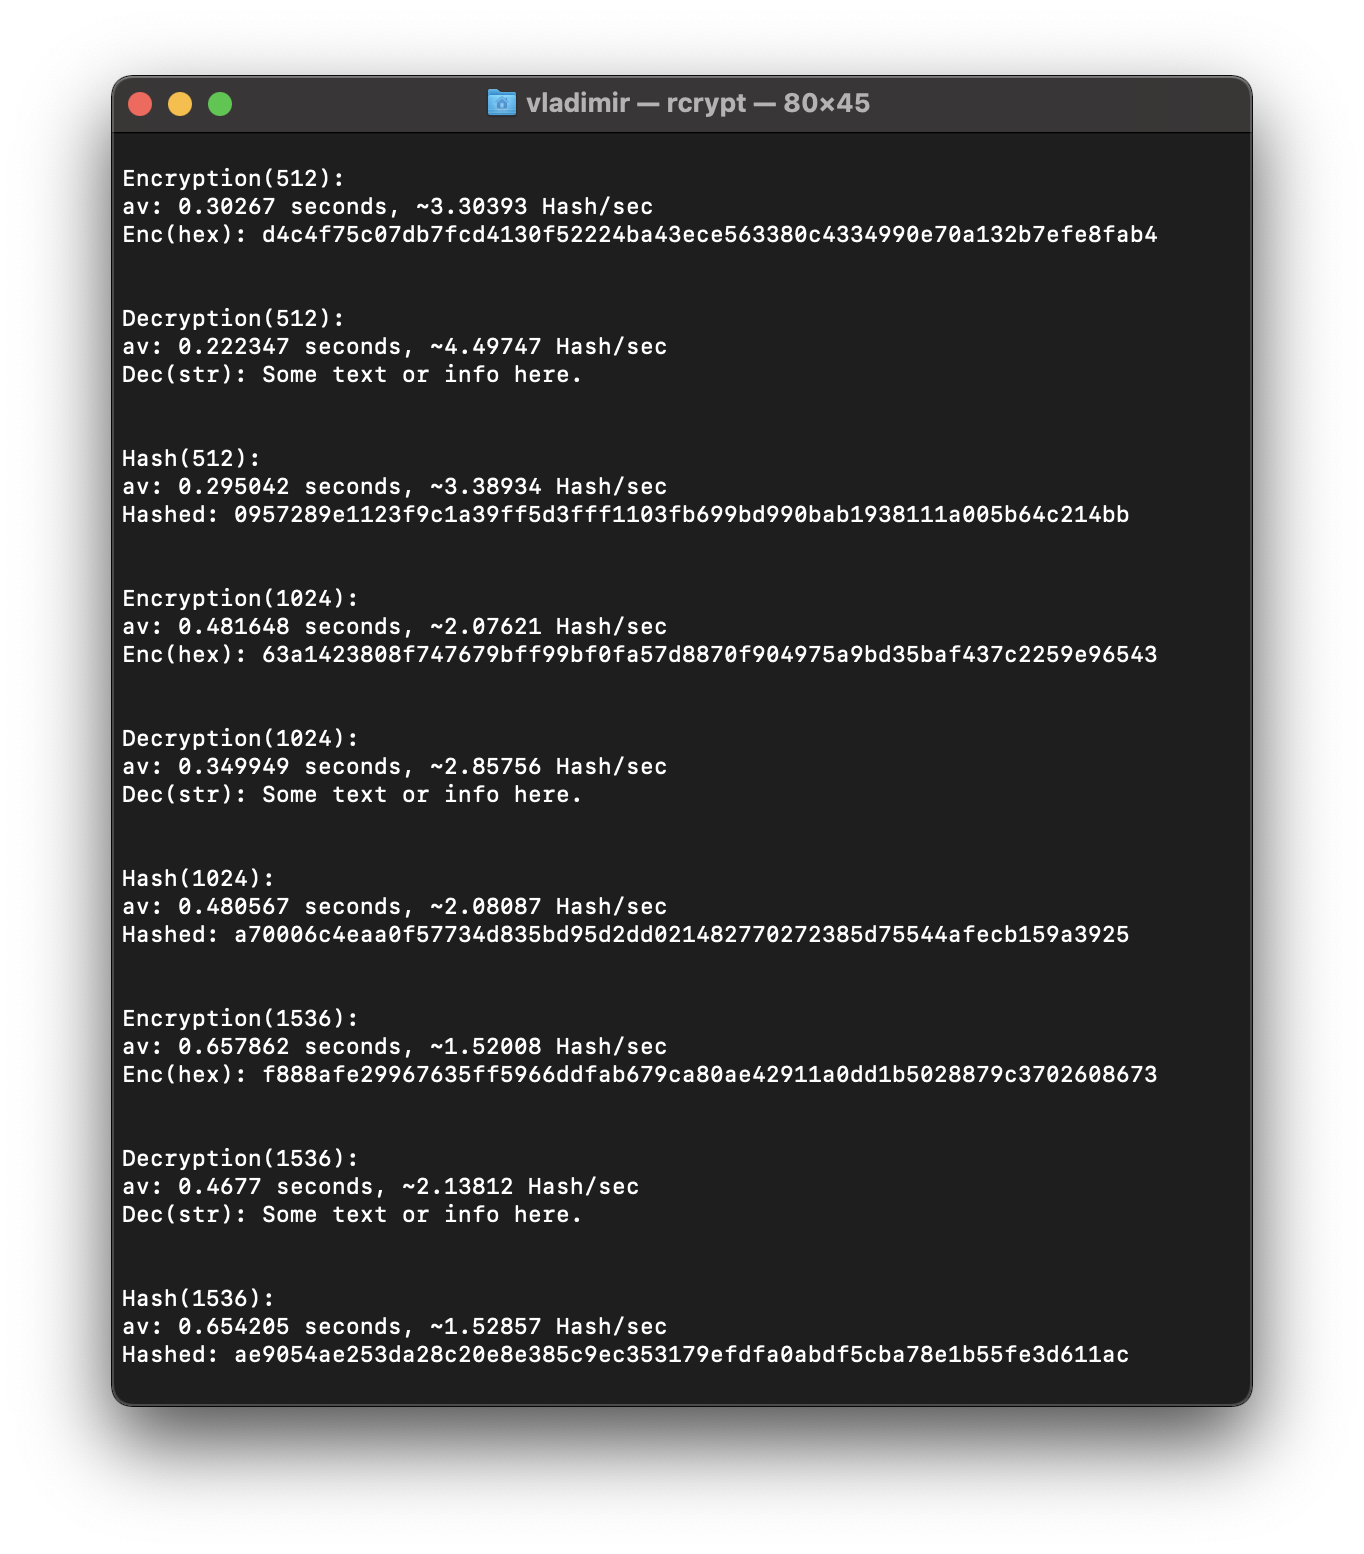
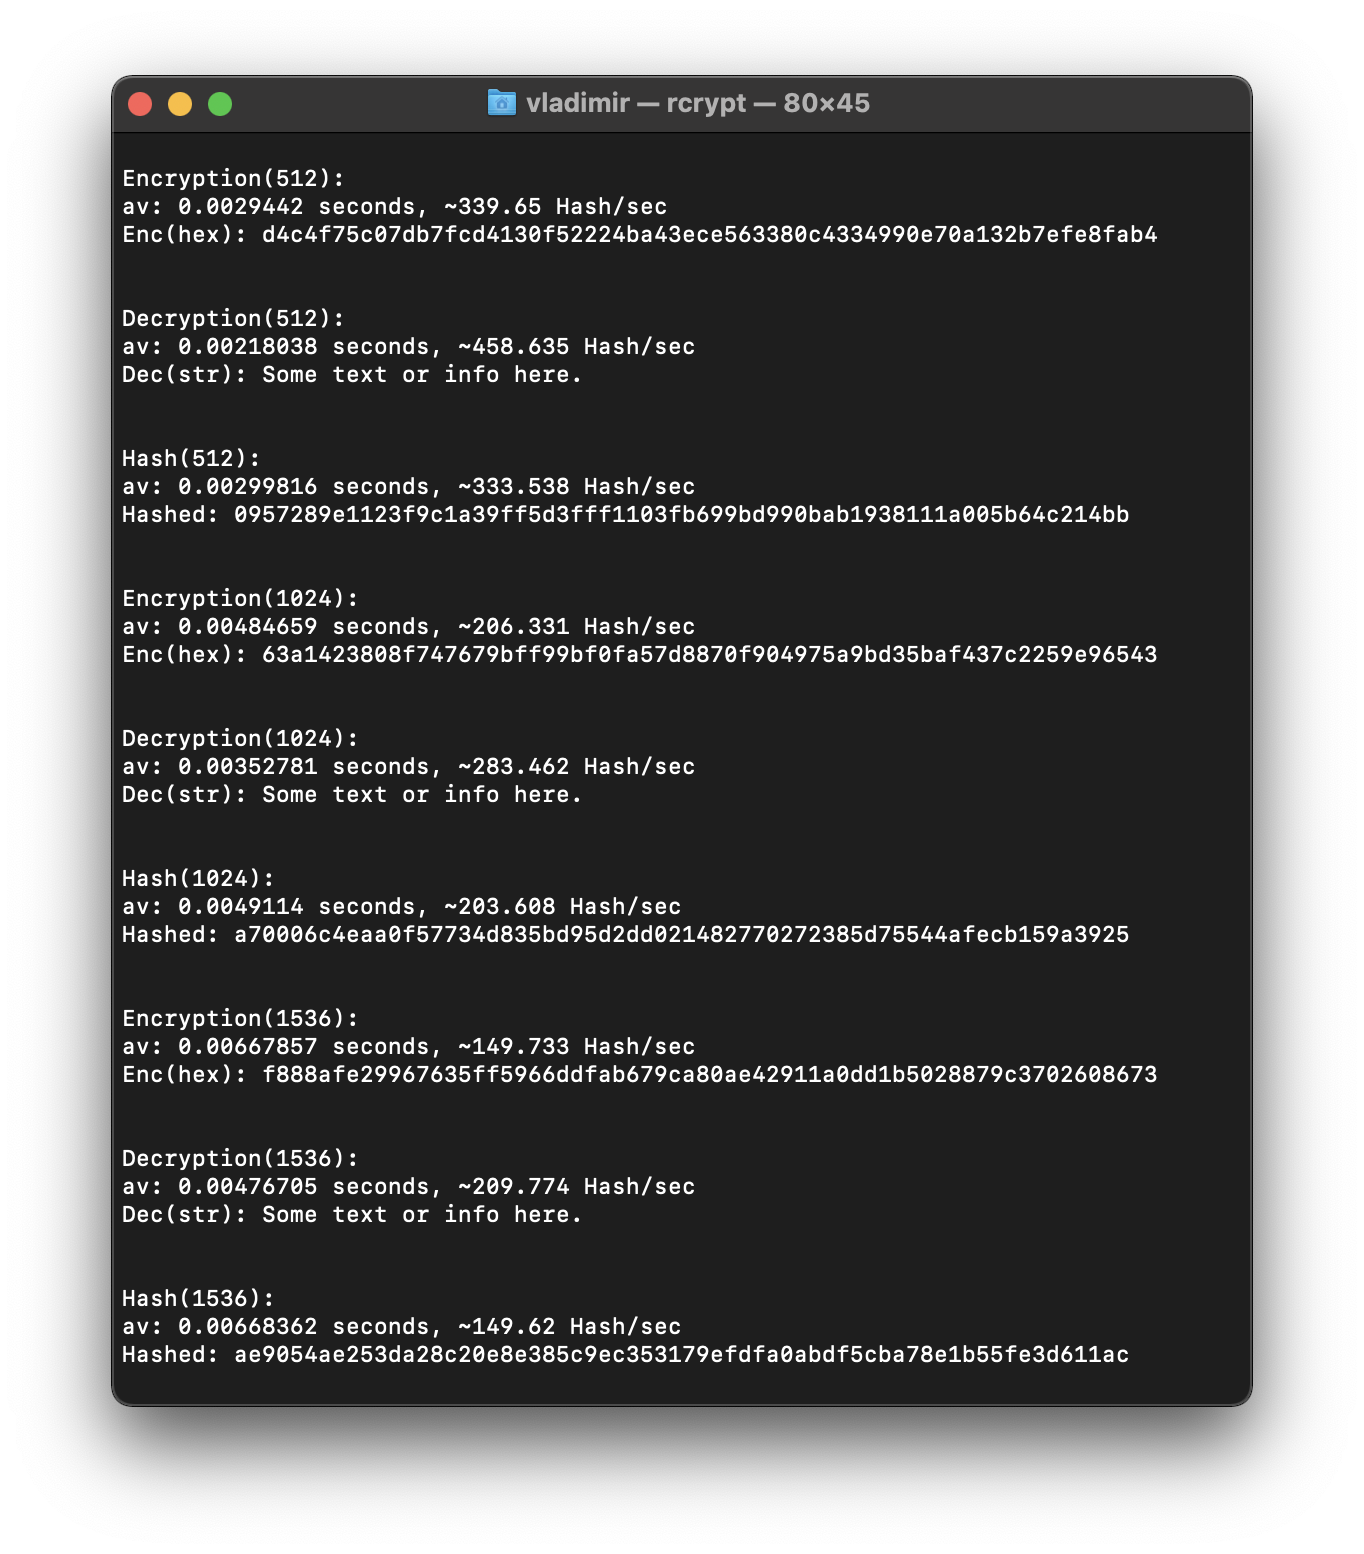
finishing

diff --git a/src/rcrypt/main.cpp b/src/rcrypt/main.cpp
@@ -35,7 +35,7 @@ int main() {
                 auto duration = std::chrono::system_clock::now() - start;
 
                 if (i >= 60) {
-                    data1e.push_back(std::chrono::duration_cast<std::chrono::microseconds>(duration).count() / 10000.0);
+                    data1e.push_back(std::chrono::duration_cast<std::chrono::microseconds>(duration).count() / 1000000.0);
                 }
 
                 delete ence;
@@ -69,7 +69,7 @@ int main() {
                 auto duration = std::chrono::system_clock::now() - start;
 
                 if (i >= 60) {
-                    data1d.push_back(std::chrono::duration_cast<std::chrono::microseconds>(duration).count() / 10000.0);
+                    data1d.push_back(std::chrono::duration_cast<std::chrono::microseconds>(duration).count() / 1000000.0);
                 }
 
                 delete decd;
@@ -103,7 +103,7 @@ int main() {
                 auto duration = std::chrono::system_clock::now() - start;
 
                 if (i >= 60) {
-                    data1h.push_back(std::chrono::duration_cast<std::chrono::microseconds>(duration).count() / 10000.0);
+                    data1h.push_back(std::chrono::duration_cast<std::chrono::microseconds>(duration).count() / 1000000.0);
                 }
 
                 delete hashe;
@@ -150,7 +150,7 @@ int main() {
                 auto duration = std::chrono::system_clock::now() - start;
 
                 if (i >= 60) {
-                    data1e.push_back(std::chrono::duration_cast<std::chrono::microseconds>(duration).count() / 10000.0);
+                    data1e.push_back(std::chrono::duration_cast<std::chrono::microseconds>(duration).count() / 1000000.0);
                 }
 
                 delete ence;
@@ -184,7 +184,7 @@ int main() {
                 auto duration = std::chrono::system_clock::now() - start;
 
                 if (i >= 60) {
-                    data1d.push_back(std::chrono::duration_cast<std::chrono::microseconds>(duration).count() / 10000.0);
+                    data1d.push_back(std::chrono::duration_cast<std::chrono::microseconds>(duration).count() / 1000000.0);
                 }
 
                 delete decd;
@@ -218,7 +218,7 @@ int main() {
                 auto duration = std::chrono::system_clock::now() - start;
 
                 if (i >= 60) {
-                    data1h.push_back(std::chrono::duration_cast<std::chrono::microseconds>(duration).count() / 10000.0);
+                    data1h.push_back(std::chrono::duration_cast<std::chrono::microseconds>(duration).count() / 1000000.0);
                 }
 
                 delete hashe;
@@ -265,7 +265,7 @@ int main() {
                 auto duration = std::chrono::system_clock::now() - start;
 
                 if (i >= 60) {
-                    data1e.push_back(std::chrono::duration_cast<std::chrono::microseconds>(duration).count() / 10000.0);
+                    data1e.push_back(std::chrono::duration_cast<std::chrono::microseconds>(duration).count() / 1000000.0);
                 }
 
                 delete ence;
@@ -299,7 +299,7 @@ int main() {
                 auto duration = std::chrono::system_clock::now() - start;
 
                 if (i >= 60) {
-                    data1d.push_back(std::chrono::duration_cast<std::chrono::microseconds>(duration).count() / 10000.0);
+                    data1d.push_back(std::chrono::duration_cast<std::chrono::microseconds>(duration).count() / 1000000.0);
                 }
 
                 delete decd;
@@ -333,7 +333,7 @@ int main() {
                 auto duration = std::chrono::system_clock::now() - start;
 
                 if (i >= 60) {
-                    data1h.push_back(std::chrono::duration_cast<std::chrono::microseconds>(duration).count() / 10000.0);
+                    data1h.push_back(std::chrono::duration_cast<std::chrono::microseconds>(duration).count() / 1000000.0);
                 }
 
                 delete hashe;
